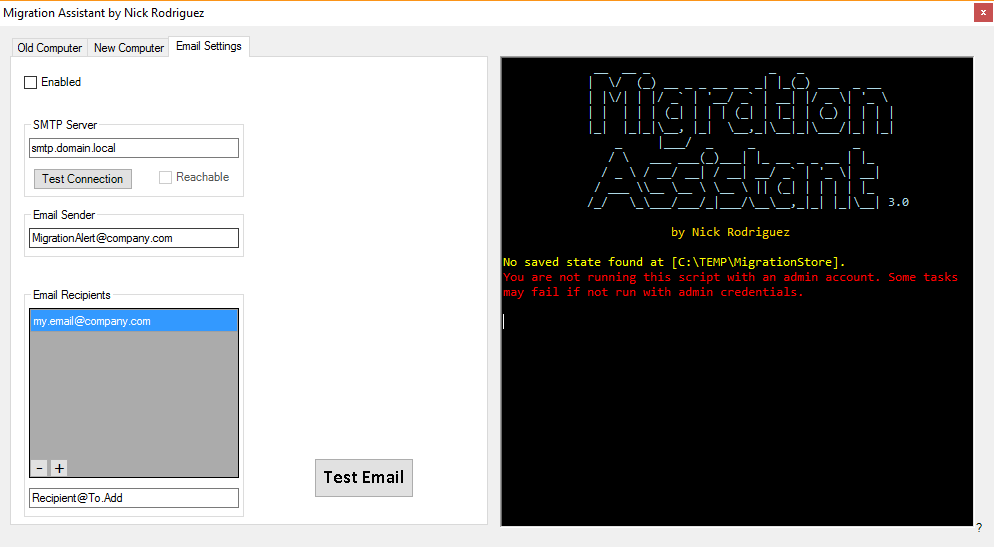
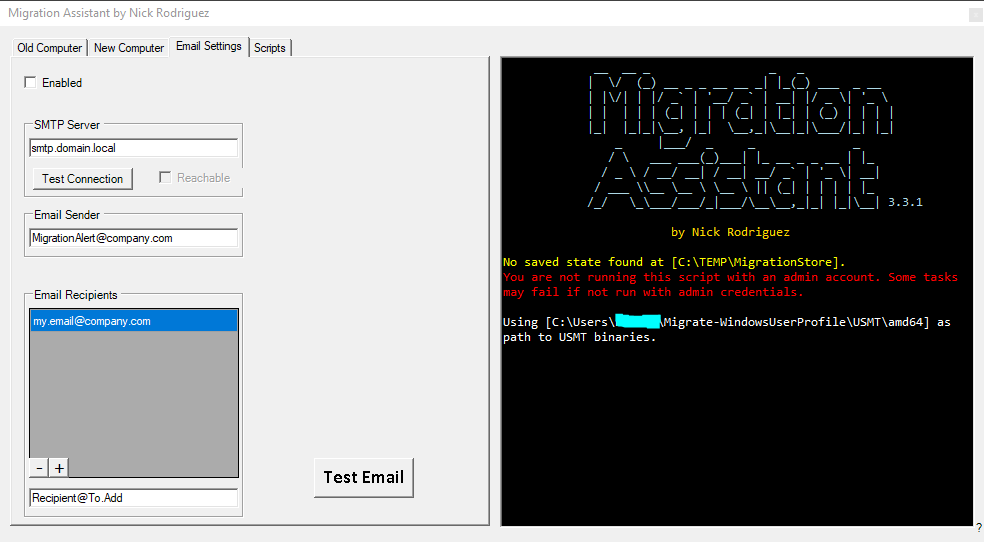
New feature to add scripts that will run before migration. Updated images in readme.

diff --git a/README.md b/README.md
@@ -6,6 +6,8 @@ This requires that the USMT binaries are already present on the machine or a net
 
 Review the Config.ps1 file and make any changes to fit your needs.
 
+I recommend using my Create-EXEFromPS1 (https://github.com/nickrod518/Create-EXEFromPS1) to package the prepped migration tool for portability and ease of use.
+
 ## Output
 You can specify the path that you want the logs and migration files to save to in the config file using the $MigrationStorePath variable (the default location is C:\TEMP\MigrationStore). You will see the load and scan state logs in that same folder named scan_progress.log and load_progress.log respectively. If you enter a new computer name the migration data will be saved on the new computer in the $MigrationStorePath directory in a folder with the same name as the old computer. You can change this location on the Old Computer tab in the Save State Destination section.
 
